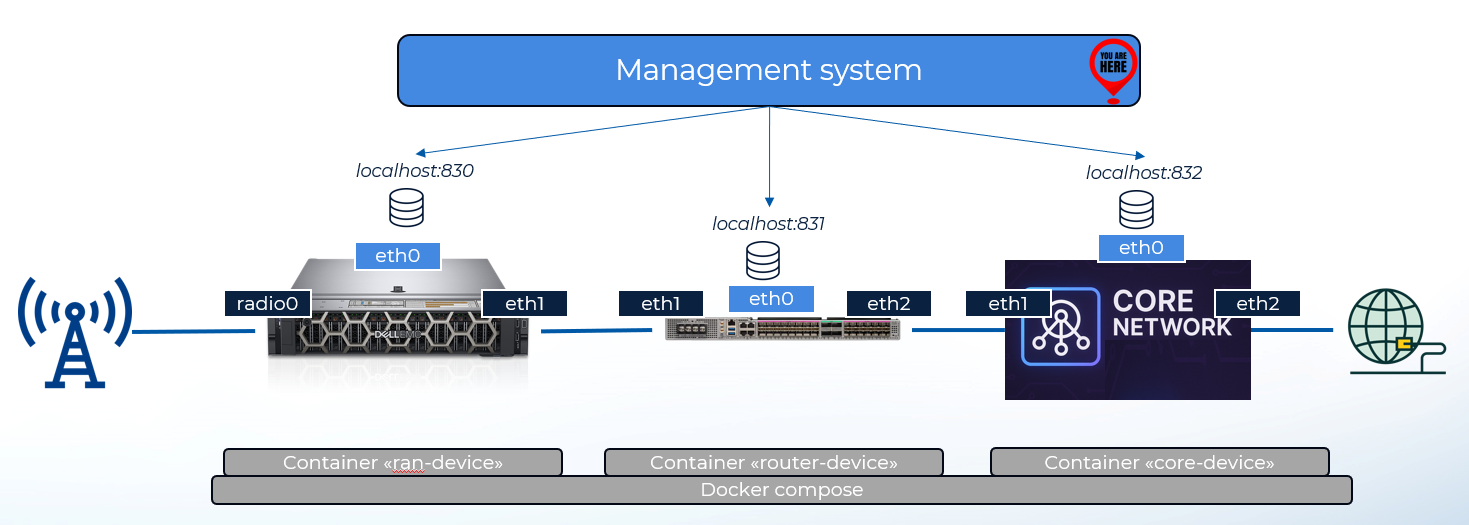
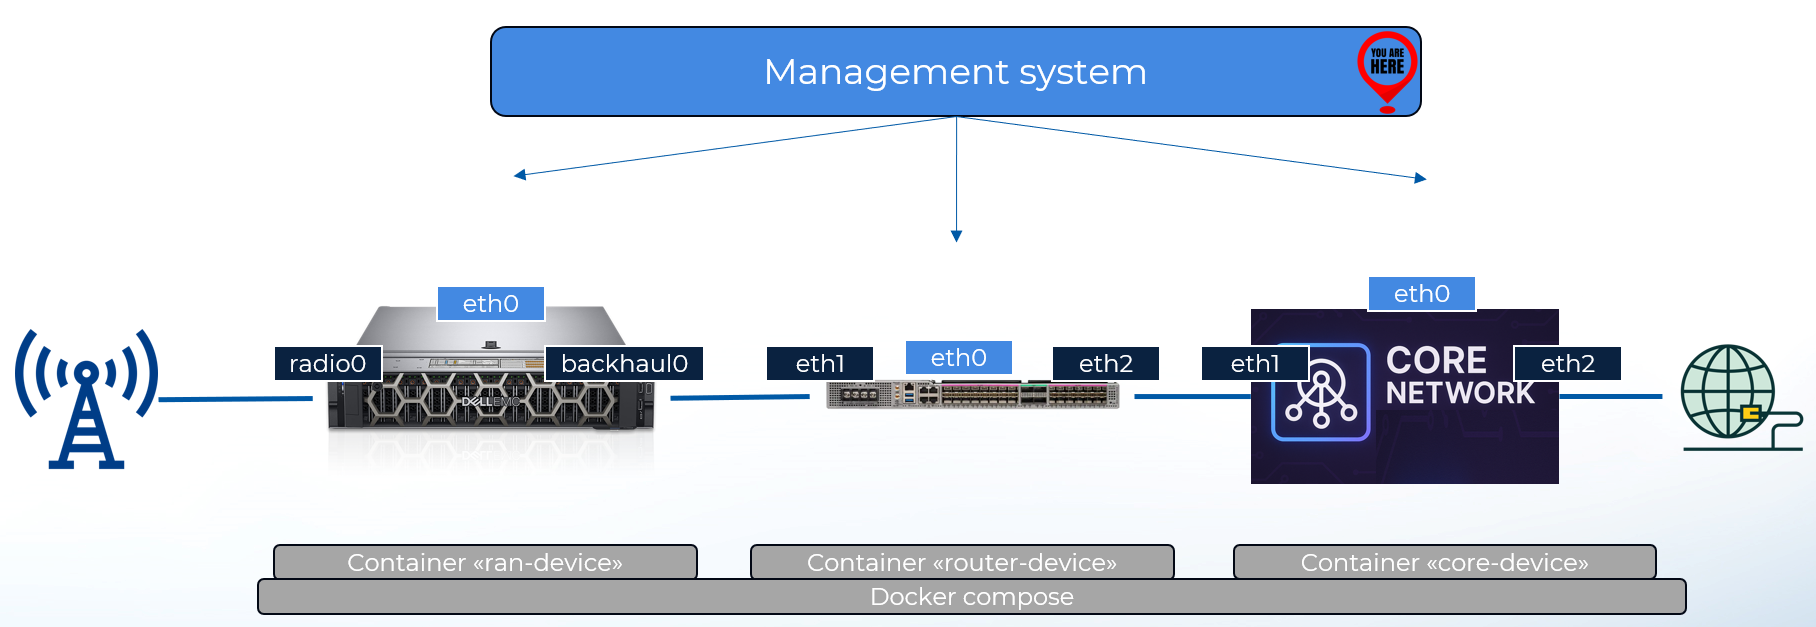
Fixed backhaul0 in image

diff --git a/readme.md b/readme.md
@@ -111,7 +111,7 @@ Activities:
     * Would the current configuration allow the system to work properly?
     * Are there differences between the datastores? Why? 
     * What would happen if a device gets restarted in such a case?
-    * What would happen to the network if the configuration applied to BBU eth1 was not matching the network configuration applied to Router eth1? Was there any check available to prevent this?
+    * What would happen to the network if the configuration applied to BBU backhaul0 was not matching the network configuration applied to Router eth1? Was there any check available to prevent this?
 * Further checks: check that the three devices have consistent IP addresses with the *network-check.py* script and, in case not, modify IP addresses again
 
 ### Work with candidate
@@ -127,7 +127,7 @@ Activities:
     * Would the current configuration allow the system to work properly?
     * Are there differences between the datastores? Why? 
     * What would happen if a device gets restarted in such a case?
-    * What would happen to the network if the configuration applied to BBU eth1 was not matching the network configuration applied to Router eth1? Was there any check available to prevent this?
+    * What would happen to the network if the configuration applied to BBU backhaul0 was not matching the network configuration applied to Router eth1? Was there any check available to prevent this?
 * How does this approach scale? What is the impact in terms of time spent if we have to manage 100 RAN devices, 50 router devices and 1 core network device?
 * Further checks: check that the three devices have consistent IP addresses with the *network-check.py* script and, in case not, modify IP addresses again
 
